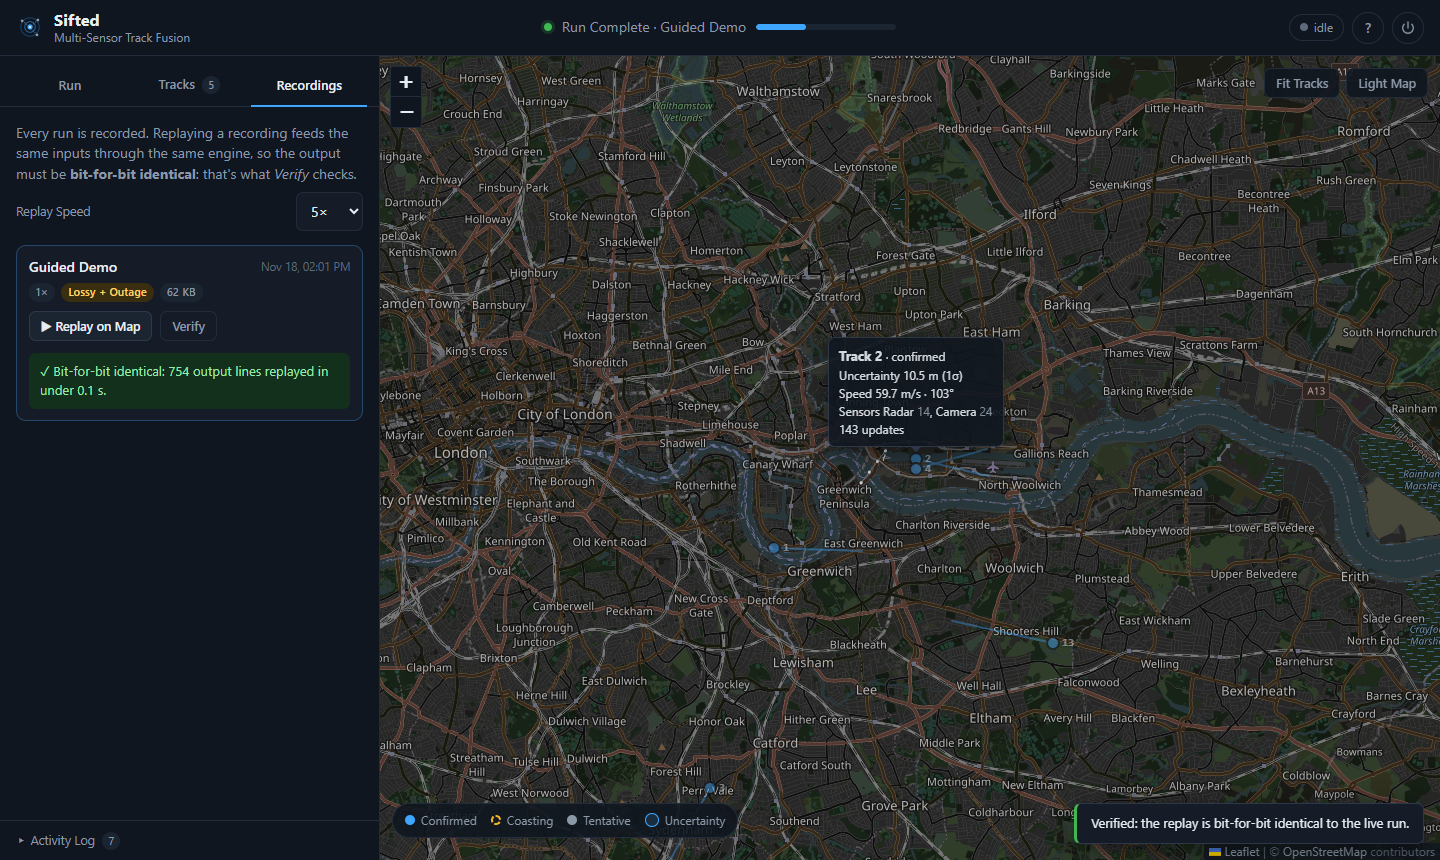
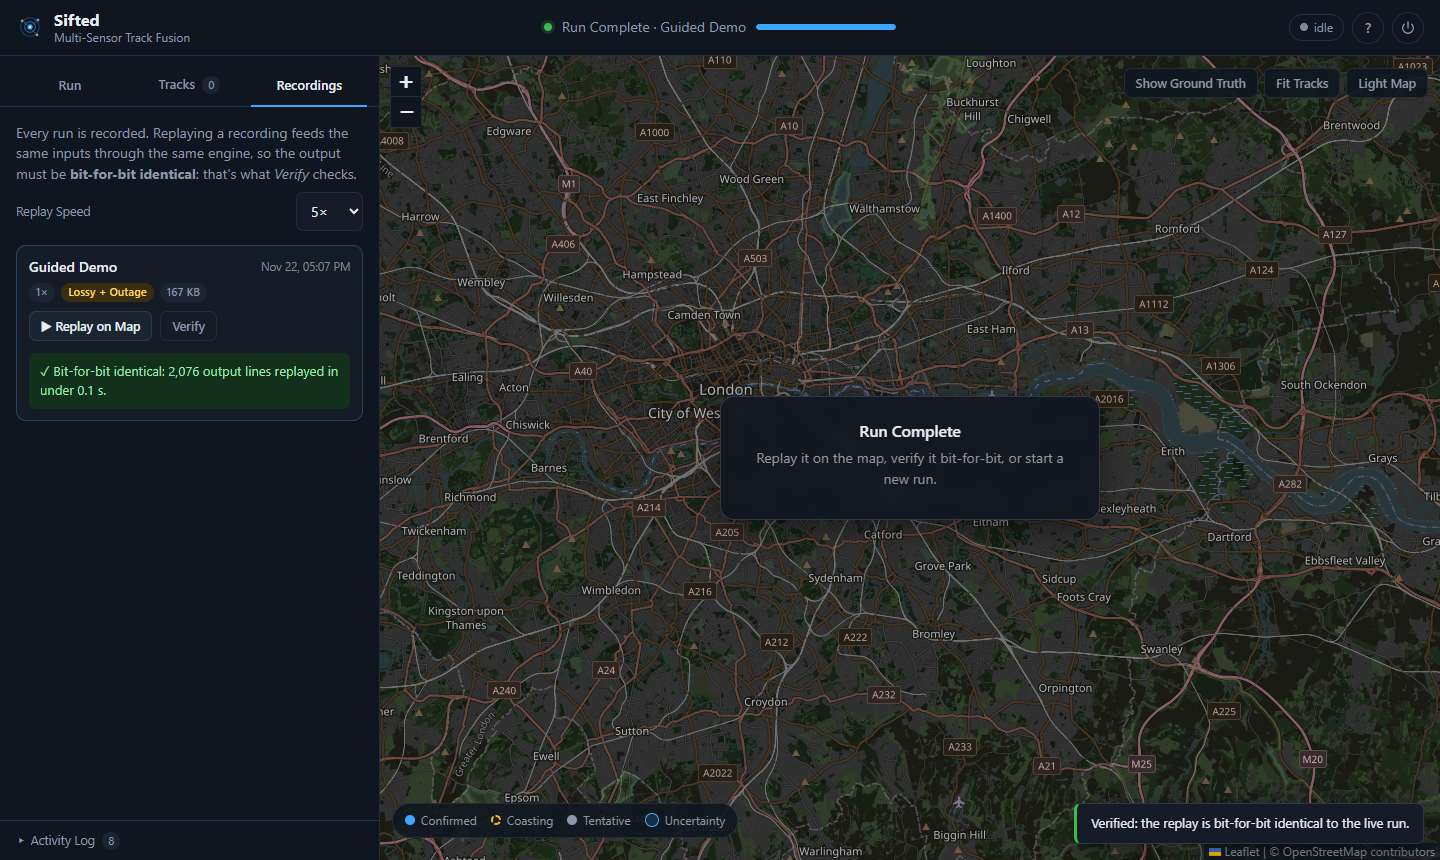
Fix operator view contrast, clarify reorder narration

Changed region(s): [[0.125, 0.0302, 1.0, 1.0], [0.125, 0.3326, 0.1562, 0.3628]]

diff --git a/web/assets/app.css b/web/assets/app.css
@@ -8,7 +8,7 @@
   --border-2: #2d394a;
   --text: #e6edf3;
   --muted: #8b98a8;
-  --faint: #5d6a7b;
+  --faint: #7d8a9c;
   --accent: #3ea6ff;
   --accent-2: #1f7fd6;
   --ok: #3fb950;
@@ -131,8 +131,8 @@ select:focus, input:focus { border-color: var(--accent); box-shadow: 0 0 0 3px r
 .btn:disabled { opacity: .5; cursor: not-allowed; }
 .btn-sm { padding: 6px 11px; font-size: 12.5px; }
 .btn-block { width: 100%; margin-top: 6px; padding: 11px 16px; }
-.btn-primary { background: var(--accent-2); border-color: #2b8ce6; }
-.btn-primary:hover:not(:disabled) { background: #2a8ae3; }
+.btn-primary { background: #1868b2; border-color: #2b8ce6; }
+.btn-primary:hover:not(:disabled) { background: #1b6cc0; }
 .btn-secondary { background: var(--panel-3); border-color: var(--border-2); }
 .btn-secondary:hover:not(:disabled) { background: #222d3c; }
 .btn-ghost { background: transparent; border-color: var(--border); color: var(--muted); }

diff --git a/web/assets/app.js b/web/assets/app.js
@@ -769,7 +769,7 @@ function watchItems(a) {
   }
   items.push([Math.min(10, D / 4), "Click a track on the map or in the Tracks tab to see why the system believes it: each association, near miss and lifecycle decision."]);
   if (a.network === "lossy" || a.network === "outage") {
-    items.push([1, "The network loses, delays, reorders and duplicates frames: duplicates are suppressed and late frames put back in order (counters below)."]);
+    items.push([1, "The network loses, delays, reorders and duplicates frames: duplicates are suppressed and late frames put back in order. Out of Order (below) counts only frames too late to use."]);
   }
   if (a.outage_at_s != null) {
     items.push([a.outage_at_s, "Link outage for 8 s: every track stops updating and coasts on prediction. Nothing is invented."]);
